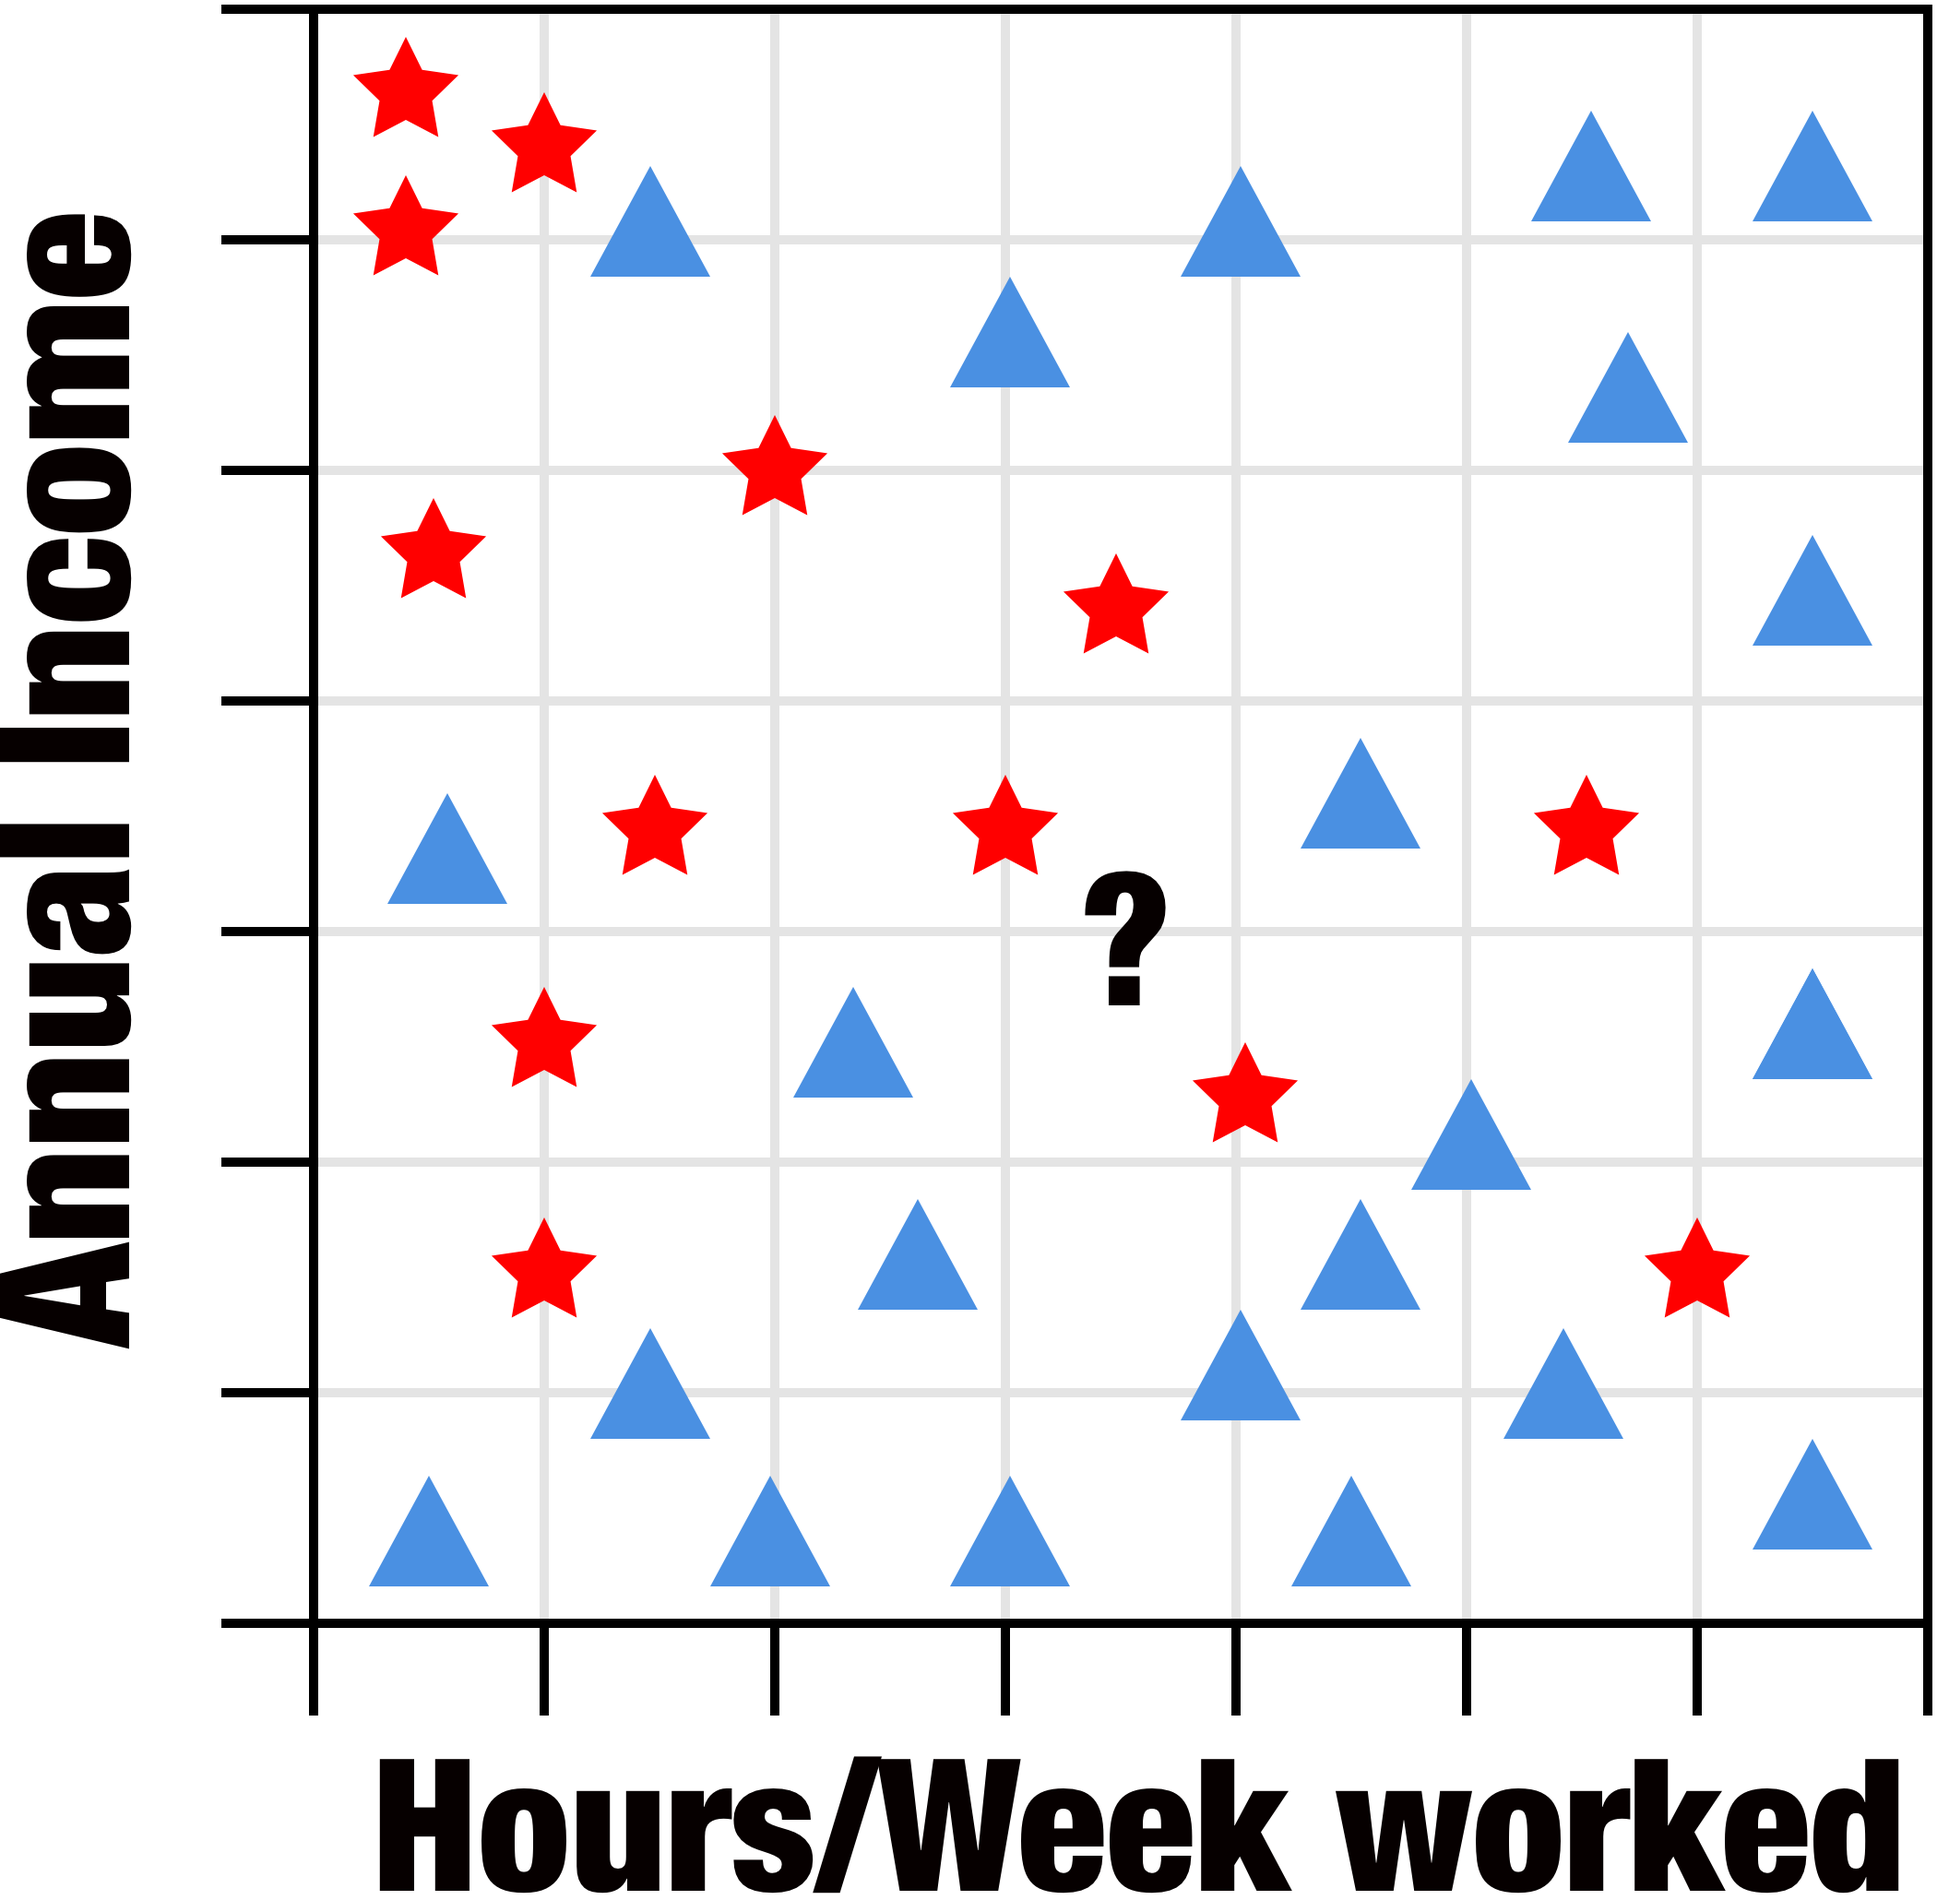
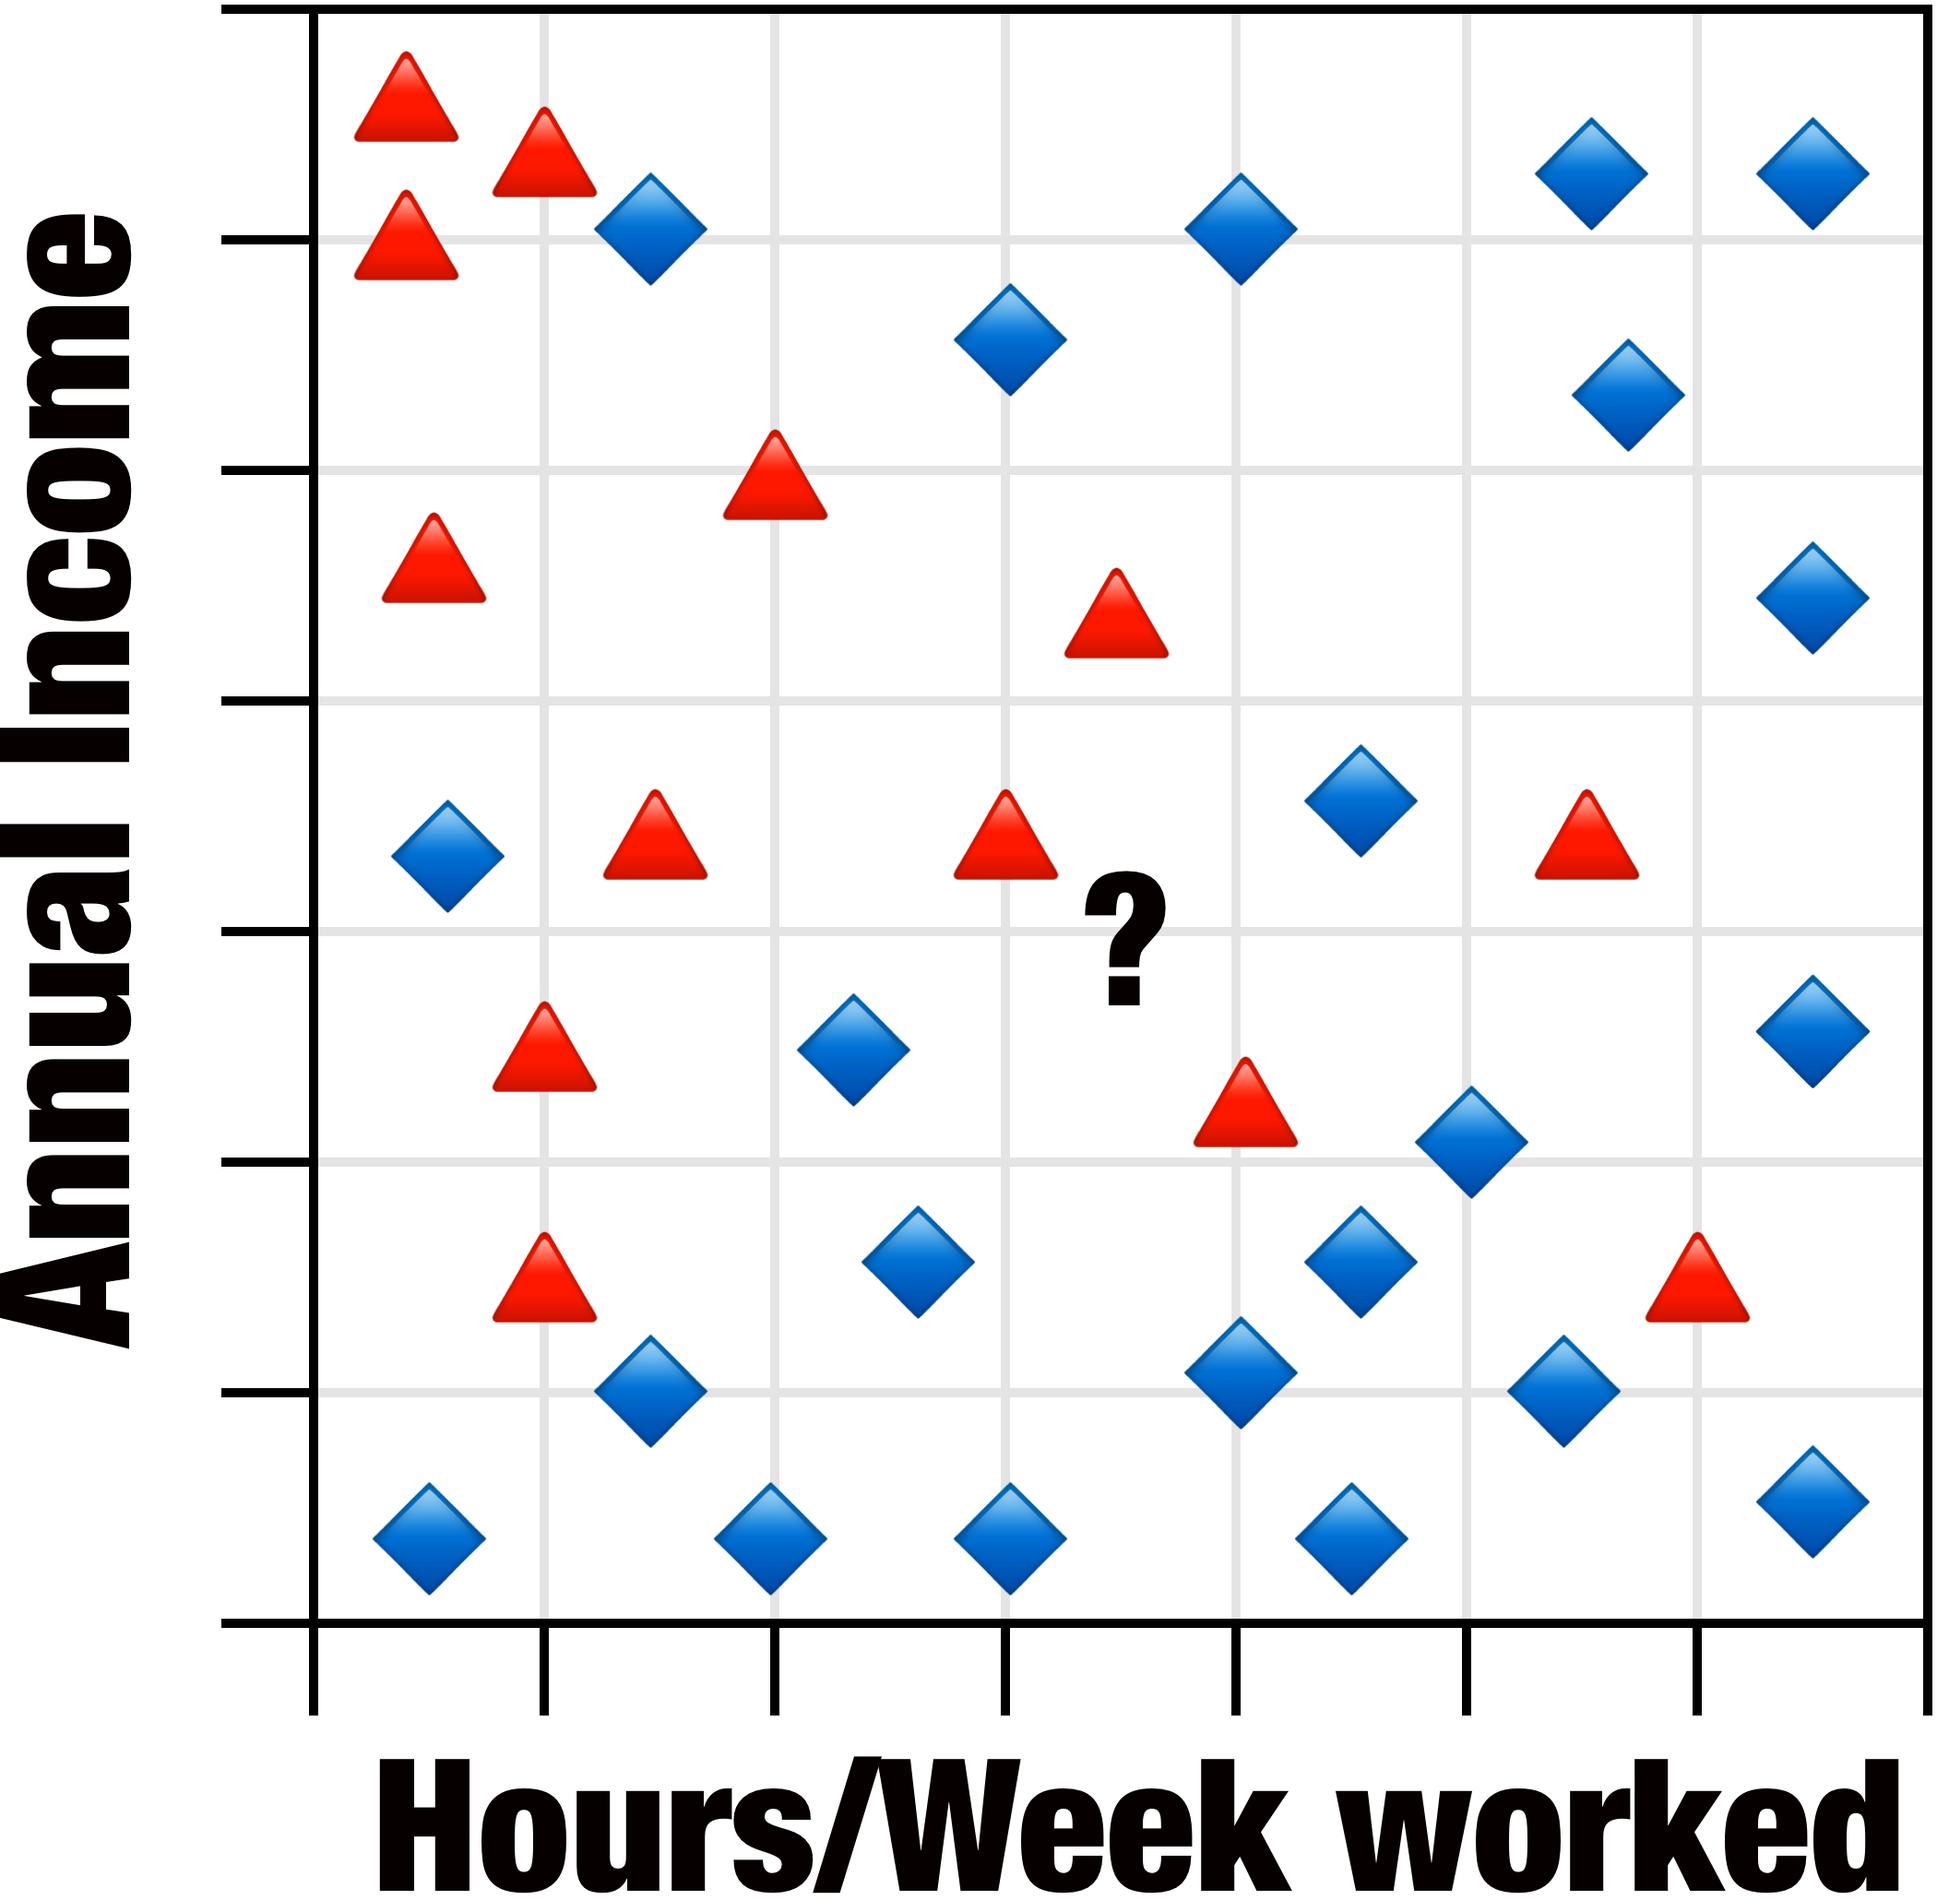
Working on a post

diff --git a/_posts/2018-08-27-machine-learning-without.md b/_posts/2018-08-27-machine-learning-without.md
@@ -82,7 +82,7 @@ Then they work out the relative probability of Thai being 👎:<br>
 
 <img src="https://raw.githubusercontent.com/AIwithSwift/AIwithSwift.github.io/master/assets/images/bayes-answer2.png" class="center-mid" /><br>
 
-Now it's simple. The most *probable* is whichever one has a higher relative probability. In this case it is 👍, so we can fill that in and say they're probably happy with their friend's choice of food.
+Now it's simple. The most *probable* is whichever one has a greater relative probability. In this case it is 👍, so we can fill that in and say they're probably happy with their friend's choice of food.
 
 <img src="https://raw.githubusercontent.com/AIwithSwift/AIwithSwift.github.io/master/assets/images/thai2.png" class="center-small" />
 
@@ -143,7 +143,7 @@ It works like so: say we plot some observations visually--this required somethin
 
 <img src="https://raw.githubusercontent.com/AIwithSwift/AIwithSwift.github.io/master/assets/images/K0.png" class="center-mid" />
 
-So we can say his behaviour is likely to correspond to the current employee with the most similar circumstances. If red star is not joined and blue triangle is joined, and their *nearest neighbour* is red, then we can say they're likely to be the same.
+So we can say his behaviour is likely to correspond to the current employee with the most similar circumstances. If 🔺 is not joined and 🔹 is joined, and their *nearest neighbour* is 🔺, then we can say they're likely to be the same.
 
 <img src="https://raw.githubusercontent.com/AIwithSwift/AIwithSwift.github.io/master/assets/images/K1.png" class="center-mid" />
 
